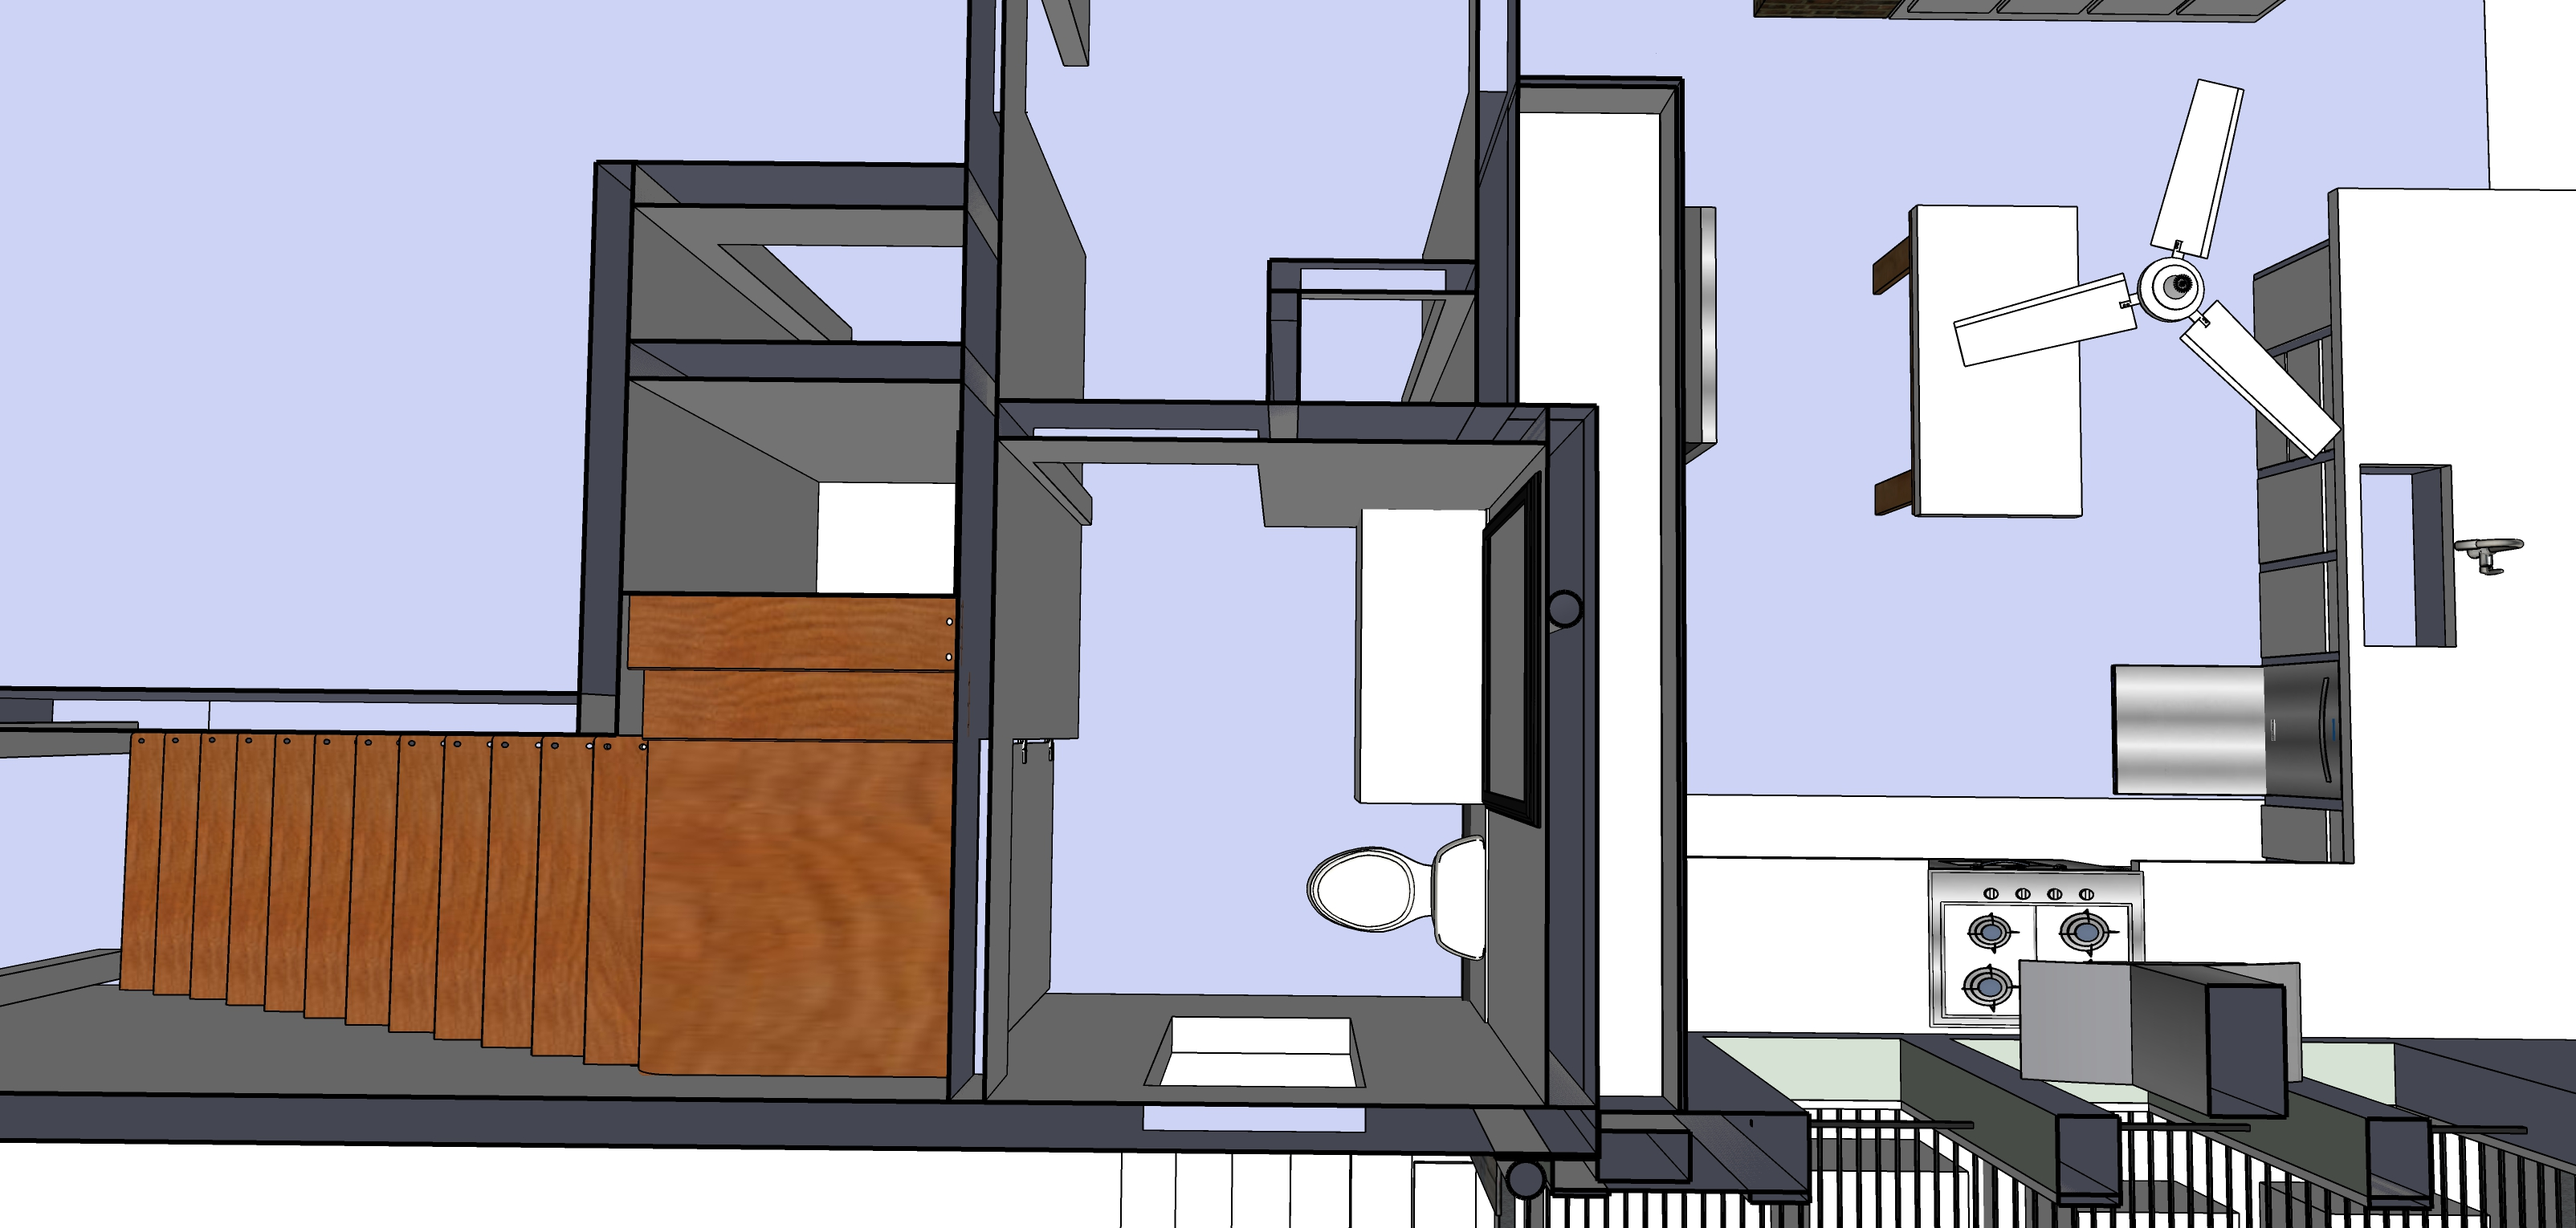
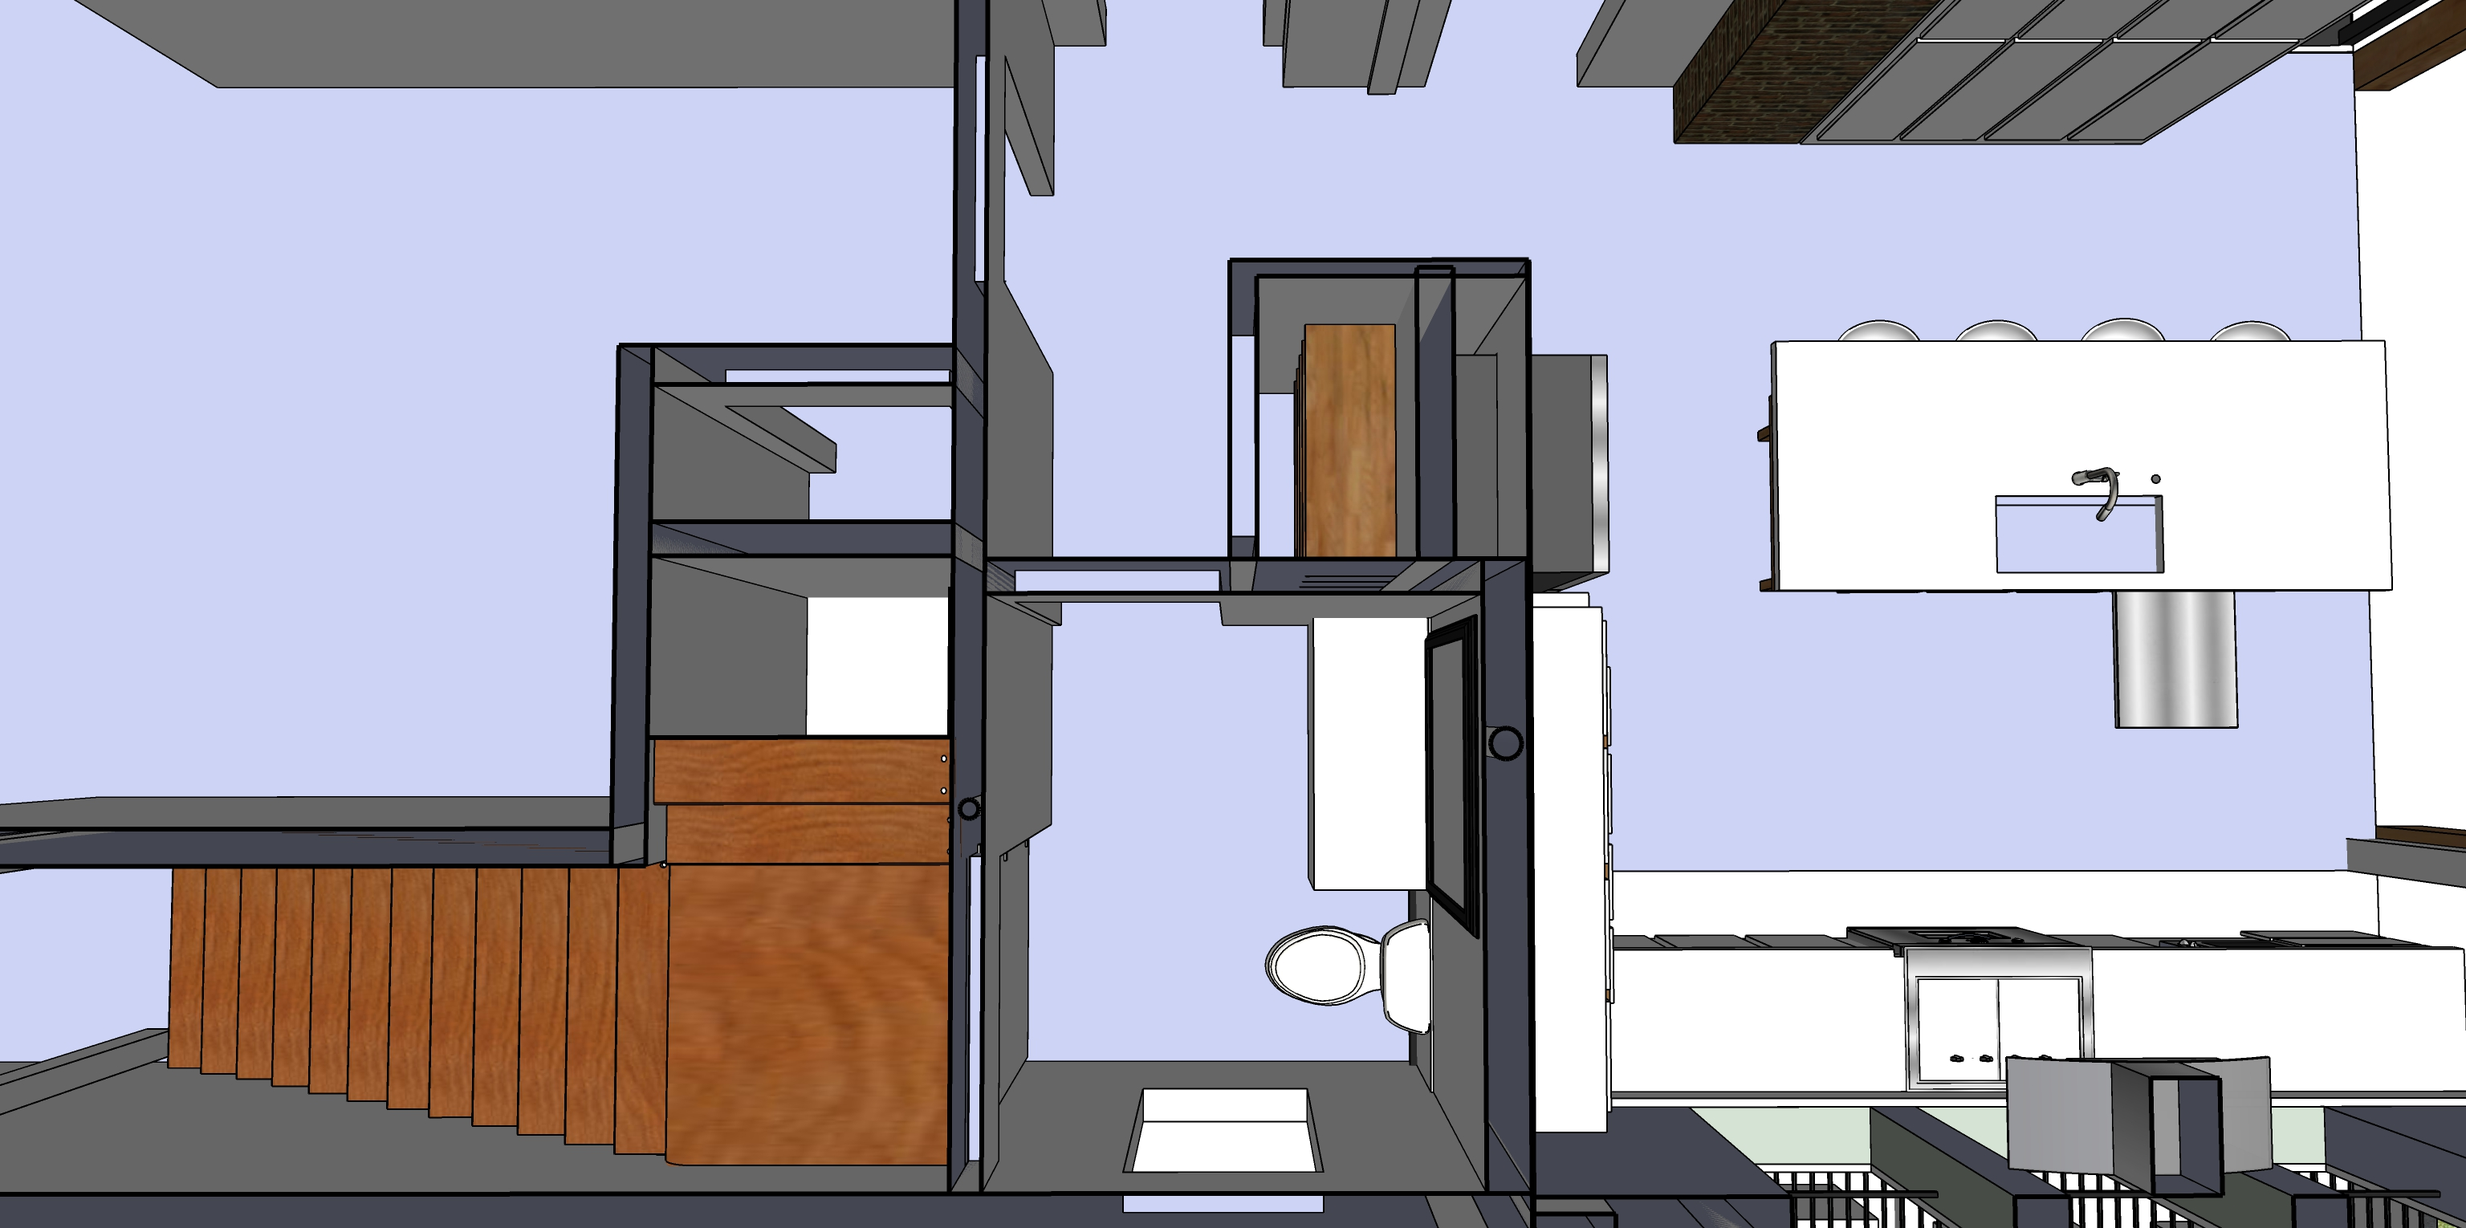
Update

diff --git a/phases/initial/index.html b/phases/initial/index.html
@@ -55,56 +55,6 @@
   <div id="readmeDiv"></div>
 </div>
 
-<script>
-$(document).ready(function () {
-function addColumns() {
-    $('.totalrow').remove();
-    $('#totals').html("");
-    let allTables = $('#readmeDiv table');
-    let grandTotalMin = 0;
-    let grandTotalMax = 0;
-    for (var i = 1; i <= allTables.length; i++) {
-      //alert(allTables[i].innerHTML); 
 
-      let min = 0;
-      let max = 0;
-
-      // the selector must be adjusted to the actual html
-      $('#readmeDiv table:nth-of-type(' + i + ') td:nth-child(2):visible').each(function(){
-         var value = $(this).text().slice(1).replace(/,/g,'');
-         min += +value;
-      });
-      //alert(min);
-
-      $('#readmeDiv table:nth-of-type(' + i + ') td:nth-child(3):visible').each(function(){
-         var value = $(this).text().slice(1).replace(/,/g,'');
-         max += +value;
-      });
-      //alert(max);
-
-      $('#readmeDiv table:nth-of-type(' + i + ') > tbody:last-child').append('<tr class="totalrow"><td></td><td>$' + min.toLocaleString("en") + '</td><td>$' + max.toLocaleString("en") + '</td></tr>');
-
-      grandTotalMin += min;
-      grandTotalMax += max;
-    }
-    let totalsText = "<table id='totaltable'><tr><td style='font-weight:bold;'>Estimated Cost Range</td><td>$" + grandTotalMin.toLocaleString("en") + "</td><td>$" + grandTotalMax.toLocaleString("en") + "</td></tr></table>";
-    $('#totals').html(totalsText)
-}
-addColumns();
-
-setTimeout( function() {
-  addColumns();
-}, 500 );
-
-setTimeout( function() {
-  addColumns();
-}, 1500 );
-
-setTimeout( function() {
-  addColumns();
-}, 3000 );
-
-});
-</script>
 </body>
 </html>

diff --git a/phases/README.md b/phases/README.md
@@ -120,7 +120,7 @@ Possible resource: Fernando Garcia 404-538-2458 - Basement on Georgia Ave (July 
 
 ## Phase 4 - Move Interior Stairway
 
-May occur before phase 3 (basement) or before phase 7 (plumbing).
+May occur before phase 3 (basement) or before phase 7 (plumbing). [Project Details](initial)
 
 |  |||
 |---|---|---|
@@ -133,9 +133,10 @@ May occur before phase 3 (basement) or before phase 7 (plumbing).
 | Open walls for access to pipes for upstairs tub drain | | |
 | Prep/Reinforce | $1,500 | $4,000 |
 | &nbsp; |||
-| **Move Stairs, Resurface Treads** | | |
-| Move stairs. Resurface treads (Patch, sand, stain, seal). Might flip treads. | $1,000 | $2,000 |
+| **Add shower framework, Move Stairs, Resurface Treads** | | |
+| Add framework and basin for shower in closet under stairs. | $1,000 | $2,000 |
 | For narrow ceiling above shower entrance, use metal plate(s) welded as box. Waterprrof barrier. Fan vent will go through box. | $500 | $1,000 |
+| Move stairs. Resurface treads (Patch, sand, stain, seal). Might flip treads. | $1,000 | $2,000 |
 | &nbsp; |||
 
 
@@ -257,7 +258,7 @@ To get quote from:<br>
 | **Plumbing** | | |
 | Move gas line in attic under plywood. | $400 | $800 |
 | Move water heater to attic. Hook up water and gas lines | $700 | $900 |
-| Plumbing for sink in kitchen island. | $500 | $800 |
+| Plumbing for sink in kitchen island. 4" Drain pipes already run to area. | $500 | $800 |
 | Plumbing for sink in craft room | $100 | $200 |
 | Plumbing for new upstairs bathrooms | $1,200 | $3,000 |  
 | Existing bathrooms - Portion of pipes for bathroom modifications, including pipe to attic. (We may wait to add hole in roof.) | $400 | $700 |
@@ -268,7 +269,9 @@ To get quote from:<br>
 |---|---|---|
 | **Existing front stairway** | | |
 | Open cracks in existing front stairway, patch | $500 | $800 |
+| Drywall in exisitng bathrooms. | $500| $800 |  
 | Paint/stain existing front stairway | $200 | $700 |
+| Paint existing bathrooms | $200 | $500 |
 | &nbsp; |||
 | **Drywall and Painting** | | |
 | Expand window opening into doorway to upstairs laundry area | $200 | $800 |

diff --git a/phases/initial/README.md b/phases/initial/README.md
@@ -1,7 +1,16 @@
 
-# 721 Grant Street
+### [721 Grant Street](../../)
 
-## Moving existing stairway 5 feet. Upgrades to two existing bathrooms.
+# Front Stairway Project
+
+Occurs within the following [construction phases](../)
+
+**Phase 2:** Demo wall above stairs. Open up wall and reinforce support column.  
+**Phase 4:** Add framework for shower in closet under stairs. Move existing stairway 5 feet.  
+**Phase 6:** Framework for existing upstairs bathroom - move wall for sink. Open wall from kitchen side for toilet move.  
+**Phase 9:** Plumbing.  
+**Phase 10** Drywall in exisitng bathrooms.  
+**Phase 11:** Tile in downstairs shower. Tile in existing bathroom upstairs - shower around window.  
 
 <a href="img/stairway.jpg"><img src="img/stairway.jpg" style="width:100%; max-width:2000px; margin-top:20px"></a><br><br>
 

diff --git a/phases/extras/README.md b/phases/extras/README.md
@@ -11,6 +11,15 @@ Using cashout after construction loan work completed.
 | **Framing** |||
 | Add closet to existing center room upstairs | $800 | $1,200 |
 
+## Craftroom
+||||
+|---|---|---|
+| **East Counter** |||
+| Extend countertop, Cabinets, Oven, Undercounter fridge | $3,000 | $5,200 |
+
+<a href="../../kitchen/img/undercounter-kitchen-refrigerator-drawers.jpg"><img src="../../kitchen/img/undercounter-kitchen-refrigerator-drawers.jpg" style="width:100%; max-width:400px"></a><br>
+<a href="https://www.google.com/search?q=fridge+under+counter&sxsrf=ALeKk02GU5j0dWZngOF80UpdOTu5UKlKqg:1614549505261&source=lnms&tbm=isch&sa=X&ved=2ahUKEwi7u-7NyY3vAhWCxFkKHWrKDOwQ_AUoAnoECAcQBA&biw=1536&bih=885&dpr=2#imgrc=QSgLMOCidC_flM">more undercounter examples</a><br><br>
+
 ## Electrical
 ||||
 |---|---|---|
